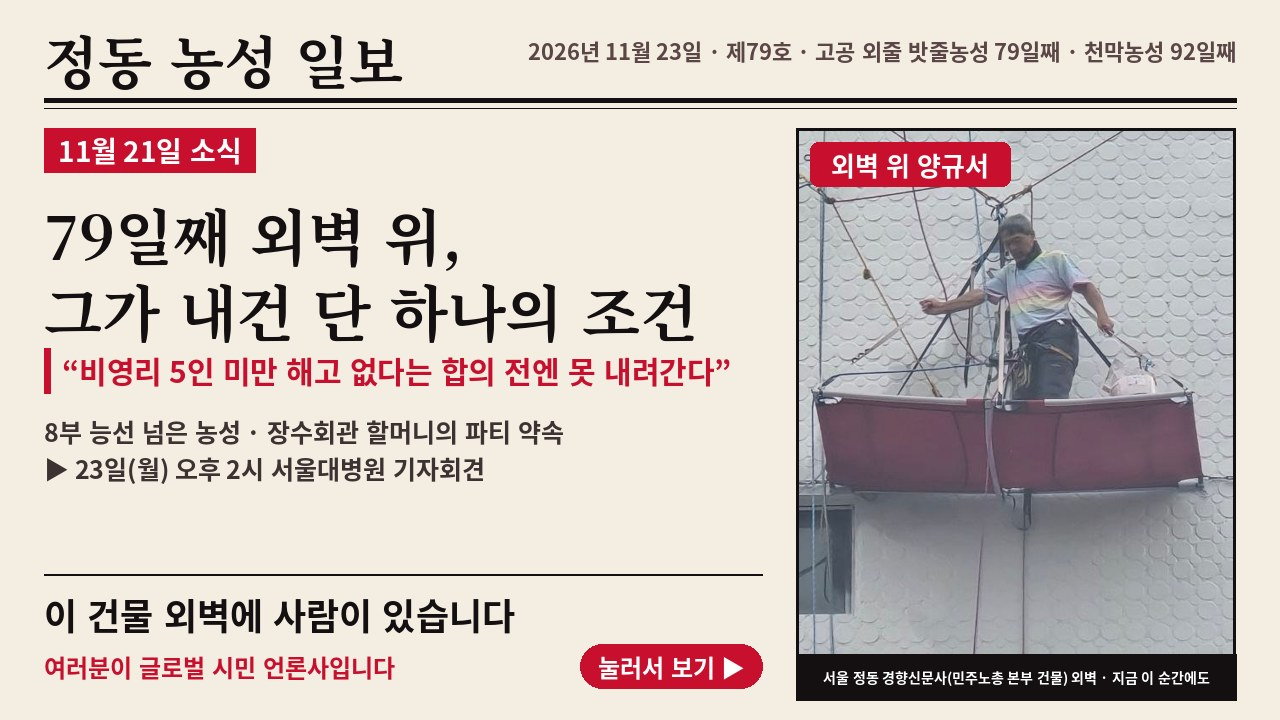
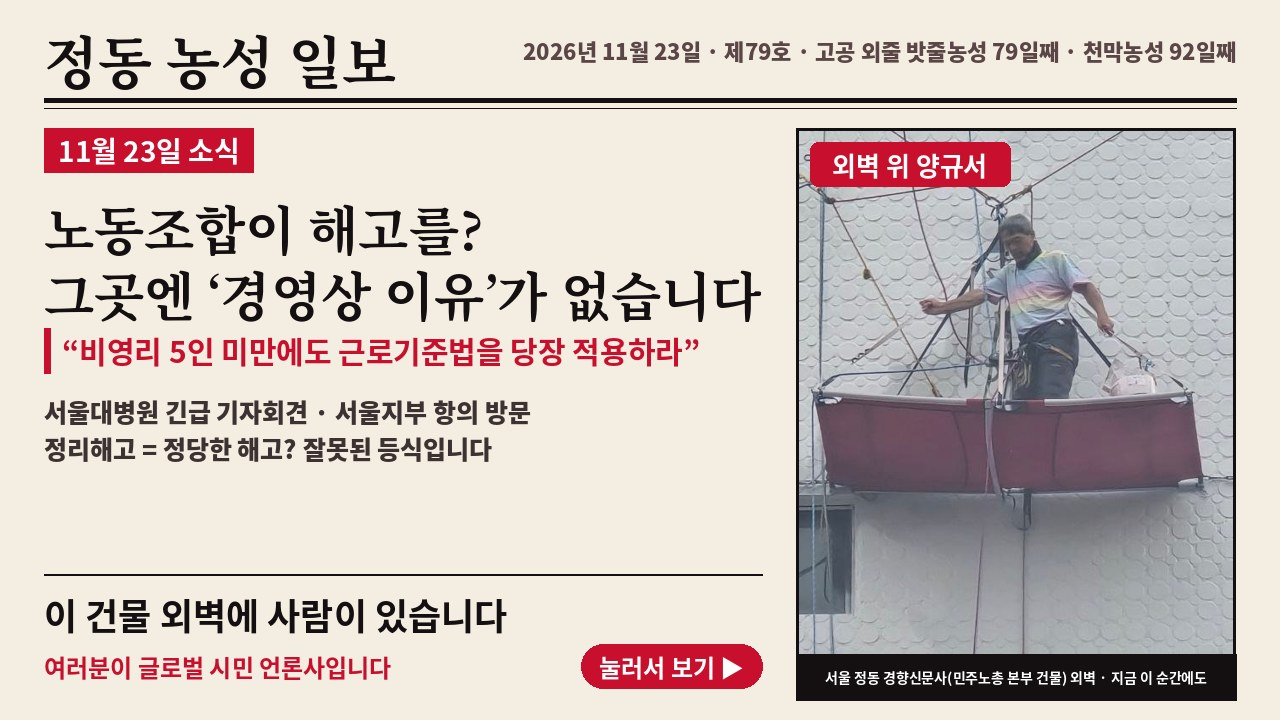
투쟁 일지 11.23 (서울대병원 긴급 기자회견·서울지부 항의 방문), 썸네일 갱신
Claude-Session: https://claude.ai/code/session_01Tz8GkWvPmrVzZC7uufwenE

diff --git a/index.html b/index.html
@@ -2,15 +2,15 @@
 <html lang="ko"><head><meta charset="utf-8">
 <title>이 건물 외벽에 사람이 있습니다 | 정동 고공 외줄 밧줄농성</title>
 <meta name="viewport" content="width=device-width,initial-scale=1,viewport-fit=cover">
-<meta name="description" content="[11.23 소식] (11.21) 오후 2시 여의도 국회의사당 앞 ‘일제강제동원 피해자 문제 해결 촉구 100만인 서명운동’ 공대위 연대(김ㅇㅇ, 전태삼, 송ㅇㅇ, 함계남) / 외벽 고공농성 밥올림(이ㅇㅇ, 류승완) / 저녁 7시 정기모임(이ㅇㅇ, 송ㅇㅇ, 전태삼, 김ㅇㅇ, 함계남, 이ㅇㅇ, 김ㅇㅇ): 모임 전 인천 계양구에서 투쟁 중인 김ㅇㅇ·임ㅇㅇ 부부(윤석열 퇴진 촛불 이후 공대위 문화제에 함께해 온 분들)가 찾아와 투쟁 상황을 나누고 소형 충전등 3개, 손난로 20개, 피켓 9장, 깃발(소 2장·대 1장)과 깃대를 기증해 주셨습니다 / 안건 1. 23일 서울대병원 기자회견: 사회 유상석, 참석자 모두 발언. 현수막·피켓·전단지·앰프를 준비하고, 회견 뒤 기자회견문과 언론 보도 내용을 정리합니다. 현재 참석 확인 8명(유상석, 함계남, 전태삼 외 5명) / 안건 2. 교섭 대응: 교섭에서는 허를 찌르는 발언과 ‘절대 물러서지 않겠구나’ 하는 강한 느낌을 줘야 한다는 데 뜻을 모았습니다. 외벽의 양규서 동지는 “민주노총에서 비영리 5인 미만 사업장에 대해 해고하는 일이 없도록 반드시 합의해야 내려올 수 있다”고 밝혔습니다. 월요일 기자회견 뒤 교섭 대응과 투쟁 계획·일정을 다시 논의합니다 / 겨울로 들어선 날씨입니다. 조합원들과 투쟁하다 모두 힘들어할 때면 “8부 능선을 올랐으니 조금만 더 가서 정상에서 좋은 경치 보고 내려가자”며 분위기를 바꾸던 기억이 납니다. 가장 적은 인원으로 가장 센 힘을 지닌 우리가 이기지 못할 이유가 무엇이겠습니까. 세상을 바꾸려 첫발을 내딛는 신입 조합원의 눈으로, ‘적어도 민주노총이 이래서는 안 된다’는 시민의 눈으로 한 걸음을 내디뎌야 할 때입니다. 승리하고 내려오는 날, 장수회관 할머니가 파티를 열어 주신다고 합니다. — 11월 21일 천막농성장에서 / 특종: 집단사직 종용 녹취록 공개 · 여러분이 글로벌 시민 언론사입니다">
+<meta name="description" content="[11.23 소식] 오후 2시 서울대병원 긴급 기자회견(함계남 외 공대위 참가자들): ‘사용자’ 민주노총 공공운수노조 의료연대본부 서울지부를 규탄하고, 이어 서울대병원 지하 1층 서울지부 사무실을 항의 방문했습니다 / 공대위가 밝힌 요지: ‘정리해고=경영상 해고=정당한 해고’는 잘못된 등식입니다. 정리해고는 노조와 누구를 해고할지 미리 협의하는 절차만 거치면 되는 제도(공대위는 ‘악법’이라 비판)이고, 이 절차를 빠뜨려야 비로소 부당해고가 됩니다. 그런데 5인 미만 사업장은 이 절차조차 필요 없습니다. 비영리 사업장은 애초에 ‘경영상 이유’가 없는 곳이고, 오히려 다른 곳보다 근로기준법을 더 잘 지켜야 하는 곳입니다. 바로 민주노총·한국노총이 그런 곳입니다. 그런데도 지금까지 비영리 5인 미만 사업장에는 아무 이유 없이 근로기준법이 온전히 적용되지 않고 있습니다. 내일부터라도 바로잡아야 합니다. / 특종: 집단사직 종용 녹취록 공개 · 여러분이 글로벌 시민 언론사입니다">
 <meta property="og:type" content="website">
 <meta property="og:site_name" content="정동 고공 외줄 밧줄농성">
 <meta property="og:title" content="이 건물 외벽에 사람이 있습니다 | 정동 고공 외줄 밧줄농성">
-<meta property="og:description" content="[11.23 소식] (11.21) 오후 2시 여의도 국회의사당 앞 ‘일제강제동원 피해자 문제 해결 촉구 100만인 서명운동’ 공대위 연대(김ㅇㅇ, 전태삼, 송ㅇㅇ, 함계남) / 외벽 고공농성 밥올림(이ㅇㅇ, 류승완) / 저녁 7시 정기모임(이ㅇㅇ, 송ㅇㅇ, 전태삼, 김ㅇㅇ, 함계남, 이ㅇㅇ, 김ㅇㅇ): 모임 전 인천 계양구에서 투쟁 중인 김ㅇㅇ·임ㅇㅇ 부부(윤석열 퇴진 촛불 이후 공대위 문화제에 함께해 온 분들)가 찾아와 투쟁 상황을 나누고 소형 충전등 3개, 손난로 20개, 피켓 9장, 깃발(소 2장·대 1장)과 깃대를 기증해 주셨습니다 / 안건 1. 23일 서울대병원 기자회견: 사회 유상석, 참석자 모두 발언. 현수막·피켓·전단지·앰프를 준비하고, 회견 뒤 기자회견문과 언론 보도 내용을 정리합니다. 현재 참석 확인 8명(유상석, 함계남, 전태삼 외 5명) / 안건 2. 교섭 대응: 교섭에서는 허를 찌르는 발언과 ‘절대 물러서지 않겠구나’ 하는 강한 느낌을 줘야 한다는 데 뜻을 모았습니다. 외벽의 양규서 동지는 “민주노총에서 비영리 5인 미만 사업장에 대해 해고하는 일이 없도록 반드시 합의해야 내려올 수 있다”고 밝혔습니다. 월요일 기자회견 뒤 교섭 대응과 투쟁 계획·일정을 다시 논의합니다 / 겨울로 들어선 날씨입니다. 조합원들과 투쟁하다 모두 힘들어할 때면 “8부 능선을 올랐으니 조금만 더 가서 정상에서 좋은 경치 보고 내려가자”며 분위기를 바꾸던 기억이 납니다. 가장 적은 인원으로 가장 센 힘을 지닌 우리가 이기지 못할 이유가 무엇이겠습니까. 세상을 바꾸려 첫발을 내딛는 신입 조합원의 눈으로, ‘적어도 민주노총이 이래서는 안 된다’는 시민의 눈으로 한 걸음을 내디뎌야 할 때입니다. 승리하고 내려오는 날, 장수회관 할머니가 파티를 열어 주신다고 합니다. — 11월 21일 천막농성장에서 / 특종: 집단사직 종용 녹취록 공개 · 여러분이 글로벌 시민 언론사입니다">
-<meta property="og:image" content="https://yky1234x.github.io/jeongdong/share.jpg?v=202611230559">
+<meta property="og:description" content="[11.23 소식] 오후 2시 서울대병원 긴급 기자회견(함계남 외 공대위 참가자들): ‘사용자’ 민주노총 공공운수노조 의료연대본부 서울지부를 규탄하고, 이어 서울대병원 지하 1층 서울지부 사무실을 항의 방문했습니다 / 공대위가 밝힌 요지: ‘정리해고=경영상 해고=정당한 해고’는 잘못된 등식입니다. 정리해고는 노조와 누구를 해고할지 미리 협의하는 절차만 거치면 되는 제도(공대위는 ‘악법’이라 비판)이고, 이 절차를 빠뜨려야 비로소 부당해고가 됩니다. 그런데 5인 미만 사업장은 이 절차조차 필요 없습니다. 비영리 사업장은 애초에 ‘경영상 이유’가 없는 곳이고, 오히려 다른 곳보다 근로기준법을 더 잘 지켜야 하는 곳입니다. 바로 민주노총·한국노총이 그런 곳입니다. 그런데도 지금까지 비영리 5인 미만 사업장에는 아무 이유 없이 근로기준법이 온전히 적용되지 않고 있습니다. 내일부터라도 바로잡아야 합니다. / 특종: 집단사직 종용 녹취록 공개 · 여러분이 글로벌 시민 언론사입니다">
+<meta property="og:image" content="https://yky1234x.github.io/jeongdong/share.jpg?v=202611231550">
 <meta property="og:image:width" content="1280"><meta property="og:image:height" content="720">
 <meta name="twitter:card" content="summary_large_image">
-<meta name="twitter:image" content="https://yky1234x.github.io/jeongdong/share.jpg?v=202611230559">
+<meta name="twitter:image" content="https://yky1234x.github.io/jeongdong/share.jpg?v=202611231550">
 <style>:root{color-scheme:light;padding-top:env(safe-area-inset-top,0px);padding-bottom:env(safe-area-inset-bottom,0px)}body{margin:0;font-family:system-ui,-apple-system,"Apple SD Gothic Neo","Malgun Gothic",sans-serif;font-size:14px}img{max-width:100%}[hidden]{display:none!important}</style>
 </head><body>
 <link rel="preconnect" href="https://fonts.googleapis.com">
@@ -195,7 +195,7 @@ footer strong{color:var(--fg);display:block;font-size:15px}
 <header class="band">
   <div class="wrap">
     <div class="loc" id="loc">서울 정동 경향신문사 외벽 고공 외줄 밧줄농성</div>
-    <div class="upd" data-upd>최종 업데이트 2026. 11. 22. 19:00</div>
+    <div class="upd" data-upd>최종 업데이트 2026. 11. 23. 16:05</div>
     <div class="langs" role="group" aria-label="Language">
       <button type="button" id="b-ko" data-l="ko" aria-pressed="true">한국어</button>
       <button type="button" id="b-en" data-l="en" aria-pressed="false">English</button>
@@ -341,6 +341,7 @@ footer strong{color:var(--fg);display:block;font-size:15px}
   }
   // 투쟁 일지: add one entry per event {d:"YYYY-MM-DD", ko, en, zh}
   var LOG=[
+    {d:"2026-11-23",ko:"오후 2시 서울대병원 긴급 기자회견(함계남 외 공대위 참가자들): ‘사용자’ 민주노총 공공운수노조 의료연대본부 서울지부를 규탄하고, 이어 서울대병원 지하 1층 서울지부 사무실을 항의 방문했습니다 / 공대위가 밝힌 요지: ‘정리해고=경영상 해고=정당한 해고’는 잘못된 등식입니다. 정리해고는 노조와 누구를 해고할지 미리 협의하는 절차만 거치면 되는 제도(공대위는 ‘악법’이라 비판)이고, 이 절차를 빠뜨려야 비로소 부당해고가 됩니다. 그런데 5인 미만 사업장은 이 절차조차 필요 없습니다. 비영리 사업장은 애초에 ‘경영상 이유’가 없는 곳이고, 오히려 다른 곳보다 근로기준법을 더 잘 지켜야 하는 곳입니다. 바로 민주노총·한국노총이 그런 곳입니다. 그런데도 지금까지 비영리 5인 미만 사업장에는 아무 이유 없이 근로기준법이 온전히 적용되지 않고 있습니다. 내일부터라도 바로잡아야 합니다.",en:"2 p.m. emergency press conference at Seoul National University Hospital (Ham Gye-nam and other joint-committee members): we denounced the ‘employer’, the Seoul branch of the KPTU Medical Solidarity Division (KCTU), then paid a protest visit to its office on basement level 1 of the hospital / The committee’s point: ‘layoff = dismissal for business reasons = lawful dismissal’ is a false equation. A layoff only requires consulting the union in advance on who will be let go (a law the committee calls unjust); skipping that step is what makes it an unfair dismissal. Workplaces with fewer than five employees do not even need that step. Nonprofit workplaces have no ‘business reasons’ to begin with and should honor the Labor Standards Act better than anyone — the KCTU and FKTU are exactly such workplaces. Yet to this day, the Act is not fully applied to small nonprofit workplaces, for no good reason. It must be fixed, starting tomorrow.",zh:"下午2点 首尔大学医院紧急记者会（Ham Gye-nam等共同对策委员会成员）：谴责“雇主”——民主劳总公共运输工会医疗联带本部首尔支部，随后前往位于首尔大学医院地下1层的首尔支部办公室抗议走访 / 共同对策委员会的主张：“整理解雇=经营上解雇=正当解雇”是错误的等式。整理解雇只需事先与工会协商解雇谁（共同对策委员会批评其为“恶法”），漏掉这一程序才构成不当解雇。而5人以下单位连这一程序都不需要。非营利单位本来就不存在“经营上的理由”，反而应比其他地方更严格遵守劳动基准法——民主劳总、韩国劳总正是这样的地方。然而至今，劳动基准法仍毫无理由地未完整适用于非营利5人以下单位。必须从明天起立即纠正。",plan:{ko:"▶ 기자회견 이후 교섭 대응과 투쟁 계획·일정 재논의",en:"▶ Negotiation strategy, plans and schedule to be discussed again after the press conference",zh:"▶ 记者会后重新讨论交涉应对、斗争计划和日程"},imgs:[["log_1123_1.jpg", {ko:"천막농성 92일·고공농성 79일 일수판(23일)",en:"Day board: tent 92, wall 79 (Nov 23)",zh:"天数牌：帐篷92天、高空79天（23日）"}], ["log_1123_2.jpg", {ko:"서울대병원 지하 1층 서울지부 사무실 항의 방문",en:"Protest visit to the Seoul branch office, basement level 1, SNU Hospital",zh:"抗议走访首尔大学医院地下1层首尔支部办公室"}]]},
     {d:"2026-11-21",ko:"오후 2시 여의도 국회의사당 앞 ‘일제강제동원 피해자 문제 해결 촉구 100만인 서명운동’ 공대위 연대(김ㅇㅇ, 전태삼, 송ㅇㅇ, 함계남) / 외벽 고공농성 밥올림(이ㅇㅇ, 류승완) / 저녁 7시 정기모임(이ㅇㅇ, 송ㅇㅇ, 전태삼, 김ㅇㅇ, 함계남, 이ㅇㅇ, 김ㅇㅇ): 모임 전 인천 계양구에서 투쟁 중인 김ㅇㅇ·임ㅇㅇ 부부(윤석열 퇴진 촛불 이후 공대위 문화제에 함께해 온 분들)가 찾아와 투쟁 상황을 나누고 소형 충전등 3개, 손난로 20개, 피켓 9장, 깃발(소 2장·대 1장)과 깃대를 기증해 주셨습니다 / 안건 1. 23일 서울대병원 기자회견: 사회 유상석, 참석자 모두 발언. 현수막·피켓·전단지·앰프를 준비하고, 회견 뒤 기자회견문과 언론 보도 내용을 정리합니다. 현재 참석 확인 8명(유상석, 함계남, 전태삼 외 5명) / 안건 2. 교섭 대응: 교섭에서는 허를 찌르는 발언과 ‘절대 물러서지 않겠구나’ 하는 강한 느낌을 줘야 한다는 데 뜻을 모았습니다. 외벽의 양규서 동지는 “민주노총에서 비영리 5인 미만 사업장에 대해 해고하는 일이 없도록 반드시 합의해야 내려올 수 있다”고 밝혔습니다. 월요일 기자회견 뒤 교섭 대응과 투쟁 계획·일정을 다시 논의합니다 / 겨울로 들어선 날씨입니다. 조합원들과 투쟁하다 모두 힘들어할 때면 “8부 능선을 올랐으니 조금만 더 가서 정상에서 좋은 경치 보고 내려가자”며 분위기를 바꾸던 기억이 납니다. 가장 적은 인원으로 가장 센 힘을 지닌 우리가 이기지 못할 이유가 무엇이겠습니까. 세상을 바꾸려 첫발을 내딛는 신입 조합원의 눈으로, ‘적어도 민주노총이 이래서는 안 된다’는 시민의 눈으로 한 걸음을 내디뎌야 할 때입니다. 승리하고 내려오는 날, 장수회관 할머니가 파티를 열어 주신다고 합니다. — 11월 21일 천막농성장에서",en:"2 p.m. joint-committee solidarity with the million-signature campaign to resolve the issue of victims of Japanese forced mobilization, in front of the National Assembly, Yeouido (Kim OO, Jeon Tae-sam, Song OO, Ham Gye-nam) / Meals sent up to the wall sit-in (Lee OO, Ryu Seung-wan) / 7 p.m. regular meeting (seven members): before the meeting, Kim OO and Lim OO, a couple waging their own struggle in Gyeyang-gu, Incheon, who have joined the joint committee’s cultural rallies since the candlelight protests, shared their situation and donated 3 small rechargeable lights, 20 hand warmers, 9 pickets, three flags (two small, one large) and a pole / Item 1, Monday’s press conference at Seoul National University Hospital: Yoo Sang-seok will chair and every participant will speak. Banners, pickets, leaflets and an amplifier are ready; afterwards we will compile the statement and the press coverage. Eight people have confirmed so far (Yoo Sang-seok, Ham Gye-nam, Jeon Tae-sam and five others) / Item 2, negotiations: we agreed that at the table we must make pointed remarks that cut to the heart of the matter and leave no doubt that we will never back down. Yang Gyu-seo, on the wall, said, “I can come down only when the KCTU firmly agrees that no one at its nonprofit workplaces with fewer than five employees will be dismissed.” Negotiation strategy, plans and schedule will be discussed again after Monday’s press conference / Winter has arrived. In past struggles, when members grew tired, I used to lift the mood by saying, “We have climbed past the last ridge; just a little further, and we can enjoy the view from the summit before we head down.” With the fewest people and the strongest resolve, what reason could there be that we cannot win? It is time to take the next step through the eyes of a new union member taking a first step to change the world, and of citizens who say the KCTU, at the very least, should not act like this. On the day we come down in victory, the grandmother at Jangsu Hall has promised to throw a party. — From the tent, November 21",zh:"下午2点 汝矣岛国会议事堂前，共同对策委员会声援“敦促解决日本强征劳工受害者问题百万人签名运动”（김ㅇㅇ、全泰三、송ㅇㅇ、Ham Gye-nam） / 为外墙高空静坐送饭（이ㅇㅇ、柳承完） / 晚上7点例会（7人参加）：会前，在仁川桂阳区进行抗争、自烛光集会以来一直参加共同对策委员会文化祭的김ㅇㅇ、임ㅇㅇ夫妇前来分享抗争情况，并捐赠小型充电灯3个、暖手宝20个、标语牌9块、旗帜3面（小2面、大1面）和旗杆 / 议题1：23日首尔大学医院记者会，由유상석（Yoo Sang-seok）主持，所有参加者发言；准备横幅、标语牌、传单和扩音器，会后整理记者会声明和媒体报道。目前确认参加8人（유상석、Ham Gye-nam、全泰三等） / 议题2：交涉应对。大家一致认为，交涉时要说出一针见血的话，让对方强烈感到“我们绝不会退让”。外墙上的Yang Gyu-seo同志表示：“只有民主劳总明确承诺，其非营利5人以下单位不再解雇任何人，我才能下来。”周一记者会后将重新讨论交涉应对、斗争计划和日程 / 天气已进入冬天。想起过去和会员们一起斗争、大家疲惫时，我常说“已经爬过八成山脊，再走一点就能登顶看美景再下山”，以此转换气氛。人数最少、力量最强的我们，有什么理由赢不了？现在是时候用想要改变世界、迈出第一步的新会员的眼光，用“民主劳总至少不该这样”的市民的眼光，迈出一步了。胜利下来的那天，长寿会馆的奶奶说要为我们开派对。——11月21日，于帐篷静坐现场",plan:{ko:"▶ 11.23(월) 오후 2시 서울대병원(혜화역 3번 출구, 1시 30분 집결) ‘사용자 민주노총 공공운수노조 의료연대본부 서울지부 규탄 기자회견’ — 사회 유상석, 참석자 모두 발언",en:"▶ Mon, Nov 23: 2 p.m. press conference at Seoul National University Hospital (Hyehwa Station exit 3; gather at 1:30 p.m.) denouncing the employer, the Seoul branch of the KPTU Medical Solidarity Division (KCTU) — chaired by Yoo Sang-seok, with every participant speaking",zh:"▶ 11月23日（周一）下午2点 首尔大学医院（惠化站3号出口，1点30分集合）“谴责雇主——民主劳总公共运输工会医疗联带本部首尔支部”记者会——由유상석（Yoo Sang-seok）主持，所有参加者发言"},imgs:[["log_1121_1.jpg", {ko: "비닐로 감싼 천막농성장과 천막농성 91일·고공농성 78일 일수판(22일 아침)", en: "The plastic-wrapped tent and day board: tent 91, wall 78 (morning of Nov 22)", zh: "包着塑料布的帐篷与天数牌：帐篷91天、高空78天（22日早晨）"}], ["log_1121_2.jpg", {ko: "여의도 국회의사당 앞 연대 집회 현장", en: "The solidarity rally in front of the National Assembly, Yeouido", zh: "汝矣岛国会议事堂前的声援集会现场"}], ["log_1121_3.jpg", {ko: "천막농성장에서 ‘집단사직종용 해고는 살인이다’ 피켓을 든 모습", en: "In the tent, holding the picket “Dismissal by collective pressure to resign is murder”", zh: "在帐篷里举着“集体逼辞的解雇就是杀人”标语牌"}]]},
     {d:"2026-11-20",ko:"오전 8시 서울고용노동청 앞 연대(함계남) / 오전 11시 긴급 대책위 회의(류승완, 유상석, 김ㅇㅇ, 이ㅇㅇ, 함계남) / 11시 40분경 총연맹 대협실장에게서 ‘진상규명위원회 결과에 따라 후속조치를 협의한다’는 문구가 추가된 제안이 왔습니다 / 오후 2시 13층 면담(사측: 대협실장·조직실장, 공대위: 류승완 대표 등 5명): 모든 것을 내려놓고 진상규명위원회와 5인 미만 문제, 두 개의 합의안을 제시한 이유를 자료(산재 승인서, 직장 내 괴롭힘 진정 서류, 수당 지급요청 내용증명, 2019~2022 투쟁 사진 등)와 함께 설명했습니다. 사측은 5인 미만 문제는 진상규명위 조사를 거쳐 권고·조직 징계 등 후속조치로 하면 된다고 했습니다. 함계남 동지는 과거 규율위원회에 직장 내 괴롭힘을 진정했지만 아무 조치가 없었다고 지적했고, 류승완 대표는 노동조합 규칙에 따른 실효성 있는 조사와 후속조치 방안이 있는지 물었습니다. 이후 노동조합 규칙을 전달받았고, 함계남 동지는 면담 자료를 집행위원장과 비상대책위원장에게 공유해 달라고 요청했습니다 / 바람 불고 추운 오늘도 천막에 와서 할 일을 찾아 주신 동지들, 모두 애쓰셨습니다.",img:"log_1120_1.jpg",ia:{ko:"비닐로 감싸고 끈으로 묶은 천막농성장, 천막농성 89일·고공농성 76일 일수판",en:"The plastic-wrapped tent with the day board: tent 89, wall 76",zh:"盖着塑料布、用绳子捆紧的帐篷和天数牌：帐篷89天、高空76天"},en:"8 a.m. solidarity in front of the Seoul Regional Employment and Labor Office (Ham Gye-nam) / 11 a.m. emergency committee meeting (Ryu Seung-wan, Yoo Sang-seok, Kim OO, Lee OO, Ham Gye-nam) / Around 11:40 a.m. the KCTU confederation’s external-affairs director sent a proposal with an added line: “follow-up measures will be discussed based on the fact-finding committee’s results” / 2 p.m. meeting on the 13th floor (KCTU: external-affairs and organizing directors; joint committee: chair Ryu Seung-wan and four others). We explained, with documents (industrial-accident approvals, the workplace-harassment complaint, a certified demand for unpaid allowances, photos of the 2019–2022 struggles and more), why we set everything else aside and proposed two agreements: a fact-finding committee and the under-five-employees issue. The KCTU side said the under-five issue can go through the fact-finding committee’s investigation, followed by recommendations or organizational discipline. Ham Gye-nam pointed out that she had once reported workplace harassment to the disciplinary committee and nothing was done; chair Ryu asked whether there is any effective way to investigate and follow up under the union’s rules. We later received the union rules, and Ham Gye-nam asked that the documents be shared with the executive chair and the emergency committee chair / To the comrades who came to the tent again on this cold, windy day looking for something to help with — thank you.",zh:"上午8点在首尔地方雇佣劳动厅前声援（Ham Gye-nam） / 上午11点召开紧急对策委员会会议（柳承完、유상석（Yoo Sang-seok）、김ㅇㅇ、이ㅇㅇ、Ham Gye-nam） / 11点40分左右，民主劳总总联盟对外协力室长发来提案，其中增加了“根据真相调查委员会的结果协商后续措施”的文字 / 下午2点在13楼面谈（资方：对外协力室长、组织室长；共同对策委员会：柳承完代表等5人）：我们附上材料（工伤认定书、职场欺凌申诉材料、要求支付津贴的内容证明、2019–2022年斗争照片等），说明了为何放下一切，提出真相调查委员会和5人以下单位问题两项协议方案。资方表示，5人以下问题可经真相调查委员会调查后，以劝告、组织处分等后续措施处理。Ham Gye-nam指出，她过去曾向纪律委员会申诉职场欺凌，却没有任何处理；柳承完代表询问是否有依据工会规则进行有效调查和后续处理的方案。之后我们收到了工会规则，Ham Gye-nam要求把面谈材料转交给执行委员长和紧急对策委员长 / 今天风大天冷，仍来到帐篷寻找能帮上忙的事的同志们，辛苦了。",plan:{ko:"▶ 11.21(토) 오후 2시 여의도 국회의사당 앞 ‘일제강제동원 피해자 문제 해결 촉구 100만인 서명운동’ 공대위 연대 / 오후 7시 천막에서 공대위 정기모임 ▶ 11.23(월) 오후 2시 서울대병원(혜화역 3번 출구) ‘사용자 민주노총 공공운수노조 의료연대본부 서울지부 규탄 기자회견’",en:"▶ Sat, Nov 21: 2 p.m. joint-committee solidarity with the million-signature campaign to resolve the issue of victims of Japanese forced mobilization, in front of the National Assembly, Yeouido / 7 p.m. regular joint-committee meeting at the tent ▶ Mon, Nov 23: 2 p.m. press conference at Seoul National University Hospital (Hyehwa Station exit 3) denouncing the employer, the Seoul branch of the KPTU Medical Solidarity Division (KCTU)",zh:"▶ 11月21日（周六）下午2点 汝矣岛国会议事堂前，声援“敦促解决日本强征劳工受害者问题百万人签名运动” / 晚上7点 在帐篷举行共同对策委员会例会 ▶ 11月23日（周一）下午2点 首尔大学医院（惠化站3号出口）“谴责雇主——民主劳总公共运输工会医疗联帯本部首尔支部”记者会"}},
     {d:"2026-11-19",ko:"사다리차 긴급 의료지원(유ㅇㅇ, 이ㅇㅇ, 전ㅇㅇ, 김ㅇㅇ, 김ㅇㅇ, 이ㅇㅇ, 김ㅇㅇ, 정ㅇㅇ, 이ㅇㅇ 동지 함께): 혈압·맥박·체온·혈당·산소포화도를 측정했습니다. 혈압이 높게 나왔지만 내과의는 긴장과 추위, 고공 환경 탓일 수 있다며 지켜보자고 합니다 / 서울고용노동청 연대 / 민주노총 중앙집행위원회에 2분 발언을 요청했으나 거절당했습니다. “75일째 고공농성인데 죽기를 기다리느냐” 항의하다 쫓겨나, 홍ㅇㅇ 비대위 집행위원장과 짧게 면담했습니다 / 정ㅇㅇ 동지 천막 보수 / 바람만큼 추위도 힘든 날, 함께해 주신 동지들께 감사드립니다.",en:"Emergency medical check by ladder truck, with nine comrades: blood pressure, pulse, temperature, blood sugar and oxygen saturation. His blood pressure was high; an internist said tension, cold and life on the wall can cause this and advised watching closely / Solidarity at the Seoul Regional Employment and Labor Office / We asked the KCTU Central Executive Committee for two minutes to speak and were refused. After protesting — “75 days on the wall. Are you waiting for him to die?” — we were pushed out, then briefly met emergency committee executive chair Hong OO / Comrade Jeong OO repaired the tent / The cold is as hard as the wind. Thank you to everyone who came.",zh:"云梯车紧急医疗支援（9名同志一同参与）：测量血压、脉搏、体温、血糖和血氧饱和度。血压偏高，内科医生表示紧张、寒冷和高空环境都可能导致，建议继续观察 / 声援首尔地方雇佣劳动厅 / 向民主劳总中央执行委员会请求发言2分钟，遭到拒绝。我们抗议“高空静坐已75天，难道要等他死吗”，随后被赶出，与紧急对策委员会执行委员长홍ㅇㅇ短暂面谈 / 정ㅇㅇ同志修补了帐篷 / 寒冷和大风一样难熬，感谢所有前来的同志们。",imgs:[["log_1119_1.jpg",{ko:"사다리차 바스켓에서 고공농성장을 살피는 구조대원",en:"A rescuer in the ladder-truck basket checking on the wall sit-in",zh:"云梯车吊篮中的救援人员查看高空静坐现场"}],["log_1119_2.jpg",{ko:"바스켓 쪽으로 손을 내미는 농성자",en:"The protester reaching out toward the basket",zh:"静坐者向吊篮伸出手"}],["log_1119_3.jpg",{ko:"외벽 농성장 바로 옆까지 다가간 사다리차",en:"The ladder truck right beside the sit-in on the wall",zh:"云梯车靠近外墙静坐现场"}],["log_1119_4.jpg",{ko:"70m 고가사다리차와 외벽 농성장",en:"The 70 m aerial platform and the wall sit-in",zh:"70米高空作业平台与外墙静坐现场"}],["log_1119_5.jpg",{ko:"경향신문사 건물 외벽까지 뻗은 사다리",en:"The ladder reaching up the Kyunghyang Shinmun building",zh:"伸向京乡新闻社大楼外墙的云梯"}],["log_1119_6.jpg",{ko:"새문안로에 선 소방 사다리차와 천막농성장",en:"The fire department ladder truck on Saemunan-ro, beside the tent sit-in",zh:"停在新门内路的消防云梯车和帐篷静坐现场"}]],plan:{ko:"▶ 11.20(금) 일정: 오전 11시 교섭 관련 긴급회의. 한 시간이 다르게 지나가는 시기의 날씨라 밀도 있는 교섭이 필요합니다",en:"▶ Fri, Nov 20: 11 a.m. emergency meeting on negotiations. With the weather turning harsher by the hour, focused, serious negotiations are needed",zh:"▶ 11月20日（周五）日程：上午11点召开有关交涉的紧急会议。天气一小时比一小时严酷，需要进行紧凑而实质的交涉"}},
